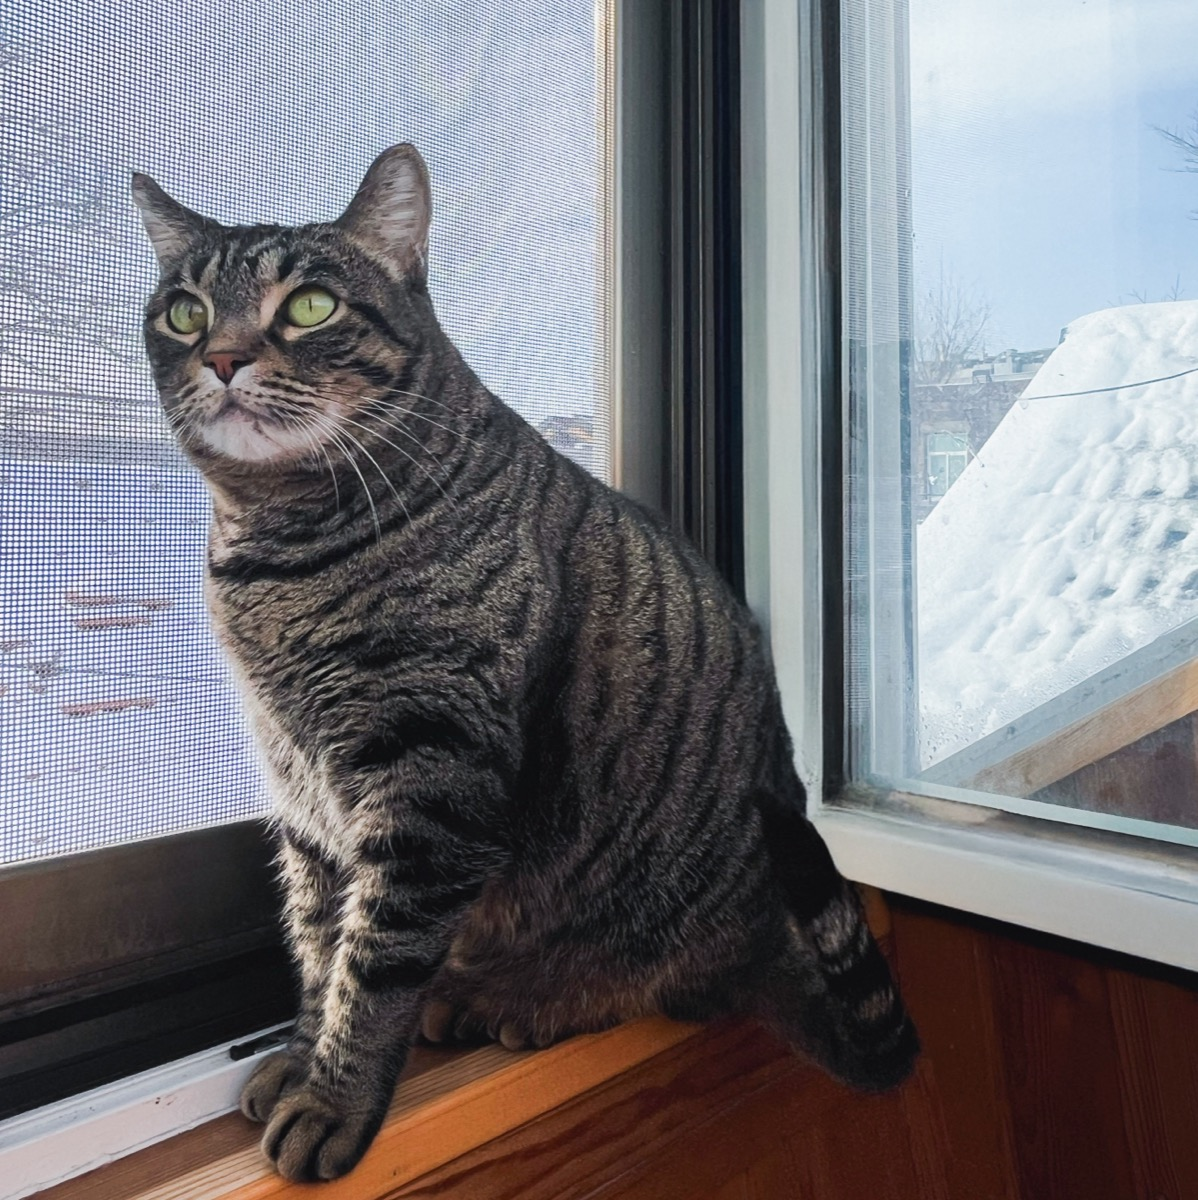
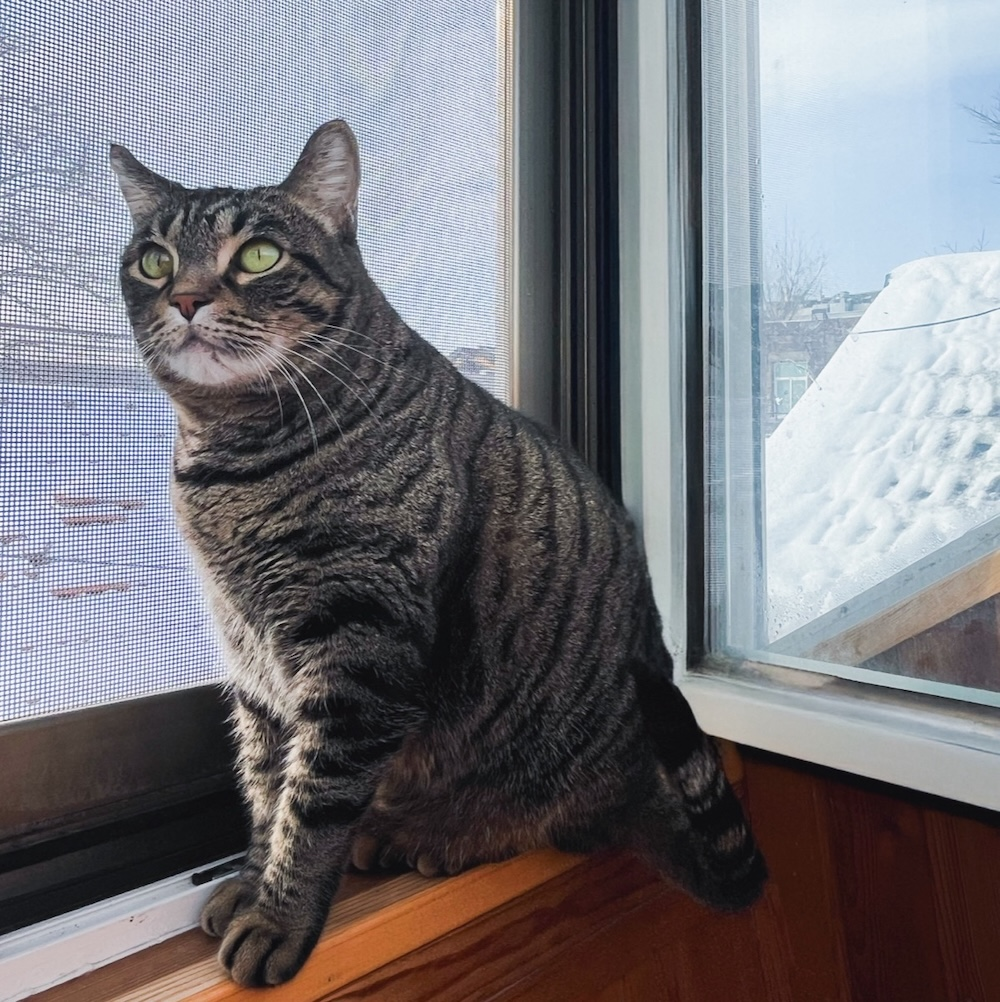
压缩图片到500KB以下

diff --git a/index.html b/index.html
@@ -647,7 +647,7 @@
 
                 <div class="project-card">
                     <div class="project-img-area">
-                        <img src="xiaohongshu.jpg" alt="小红书运营">
+                        <img src="xiaohongshu.png" alt="小红书运营">
                     </div>
                     <div class="project-title">AI观点小红书</div>
                     <p class="project-desc">开始运营一个围绕AI来讲述观点的小红书号，初衷是想表达对AI的见解和主流观点相异，但我个人认为很重要的视角。</p>
@@ -672,7 +672,7 @@
 
                 <div class="project-card">
                     <div class="project-img-area">
-                        <img src="hyphae.jpg" alt="Hyphae Demo">
+                        <img src="hyphae.png" alt="Hyphae Demo">
                     </div>
                     <div class="project-title">Hyphae 网页搭建</div>
                     <p class="project-desc">在参加She Code lab组织的北京Vibe Coding活动中，第一次搭成了自己的网页。</p>
